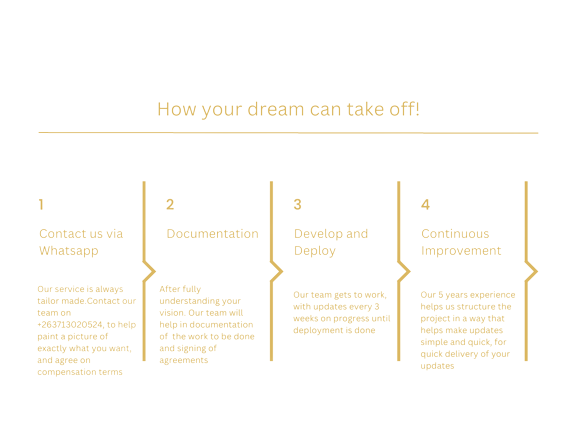
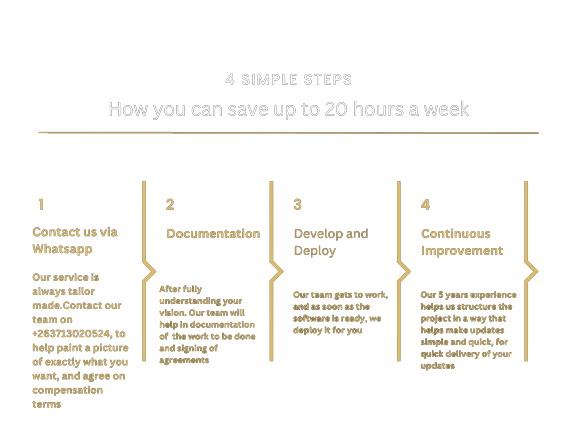
Update
- Making the goal clear

diff --git a/pages/index.tsx b/pages/index.tsx
@@ -46,8 +46,12 @@ export default function Home() {
             <Nav />
             <div className='grid grid-cols-1 afterMini:grid-cols-10'>
               <div className='col-span-4 lg:col-span-5  lg:p-0 flex flex-col m-4 bg-black-metal bg-cover border rounded-lg   afterMini:bg-none afterMini:border-none p-4'>
-                <h1 className='text-white xxs:text-2xl xs:text-5xl font-extrabold m-8 w-full'>Vision Is Primary</h1>
-                <p className='text-white text-lg mt-8 ml-8 mr-8'>Your vision is that dream you have. When you want to decrease your business costs, Vision Is Primary is your choice partner.When you want to enhance your digital presence to increase your bottom line. Vision Is Primary is your choice partner.At Vision Is Primary we do not just make websites or applications or systems. We make <span className='text-yellow-400'>ART</span>.<span className='text-yellow-400'>Tailor made</span>, as far as your eyes can see, we can bring it into reality</p>
+                <h1 className='text-white xxs:text-2xl xs:text-3xl font-extrabold m-8 w-full'>Automation could you save more than <span className='text-yellow-500'>20 hours</span> a week!</h1>
+                <p className='text-white text-lg mt-8 ml-8 mr-8'>We help organizations increase the return on their time by crafting and implementing their <span className='text-yellow-500'>Digital Strategy</span></p>
+
+                <p className='text-white text-lg mt-8 ml-8 mr-8'>We use a set of tools that help you automate routine business activities, streamline your workflows, and improve the efficiency of your business processes.</p>
+
+                <p className='text-white text-lg mt-8 ml-8 mr-8'> We also help build custom software for your business, like a website, mobile app, and desktop app, to help achieve the goals of your business</p>
                 <div className='mt-8 ml-8 mr-8 flex flex-row justify-start'>
                   <Button text="Contact Us" link={contactLink} />
                   <Link href="#portfolio"><p className="m-2 text-white">See more</p></Link>
@@ -97,12 +101,12 @@ export default function Home() {
         </div>
 
 
-      </div>
+      </div >
       <a href={contactLink}>
         <img src='/images/whatsapp.png' className={'animate-bounce fixed bottom-20  right-10 h-16 w-16'} />
       </a>
 
-    </div>
+    </div >
 
 
   )
